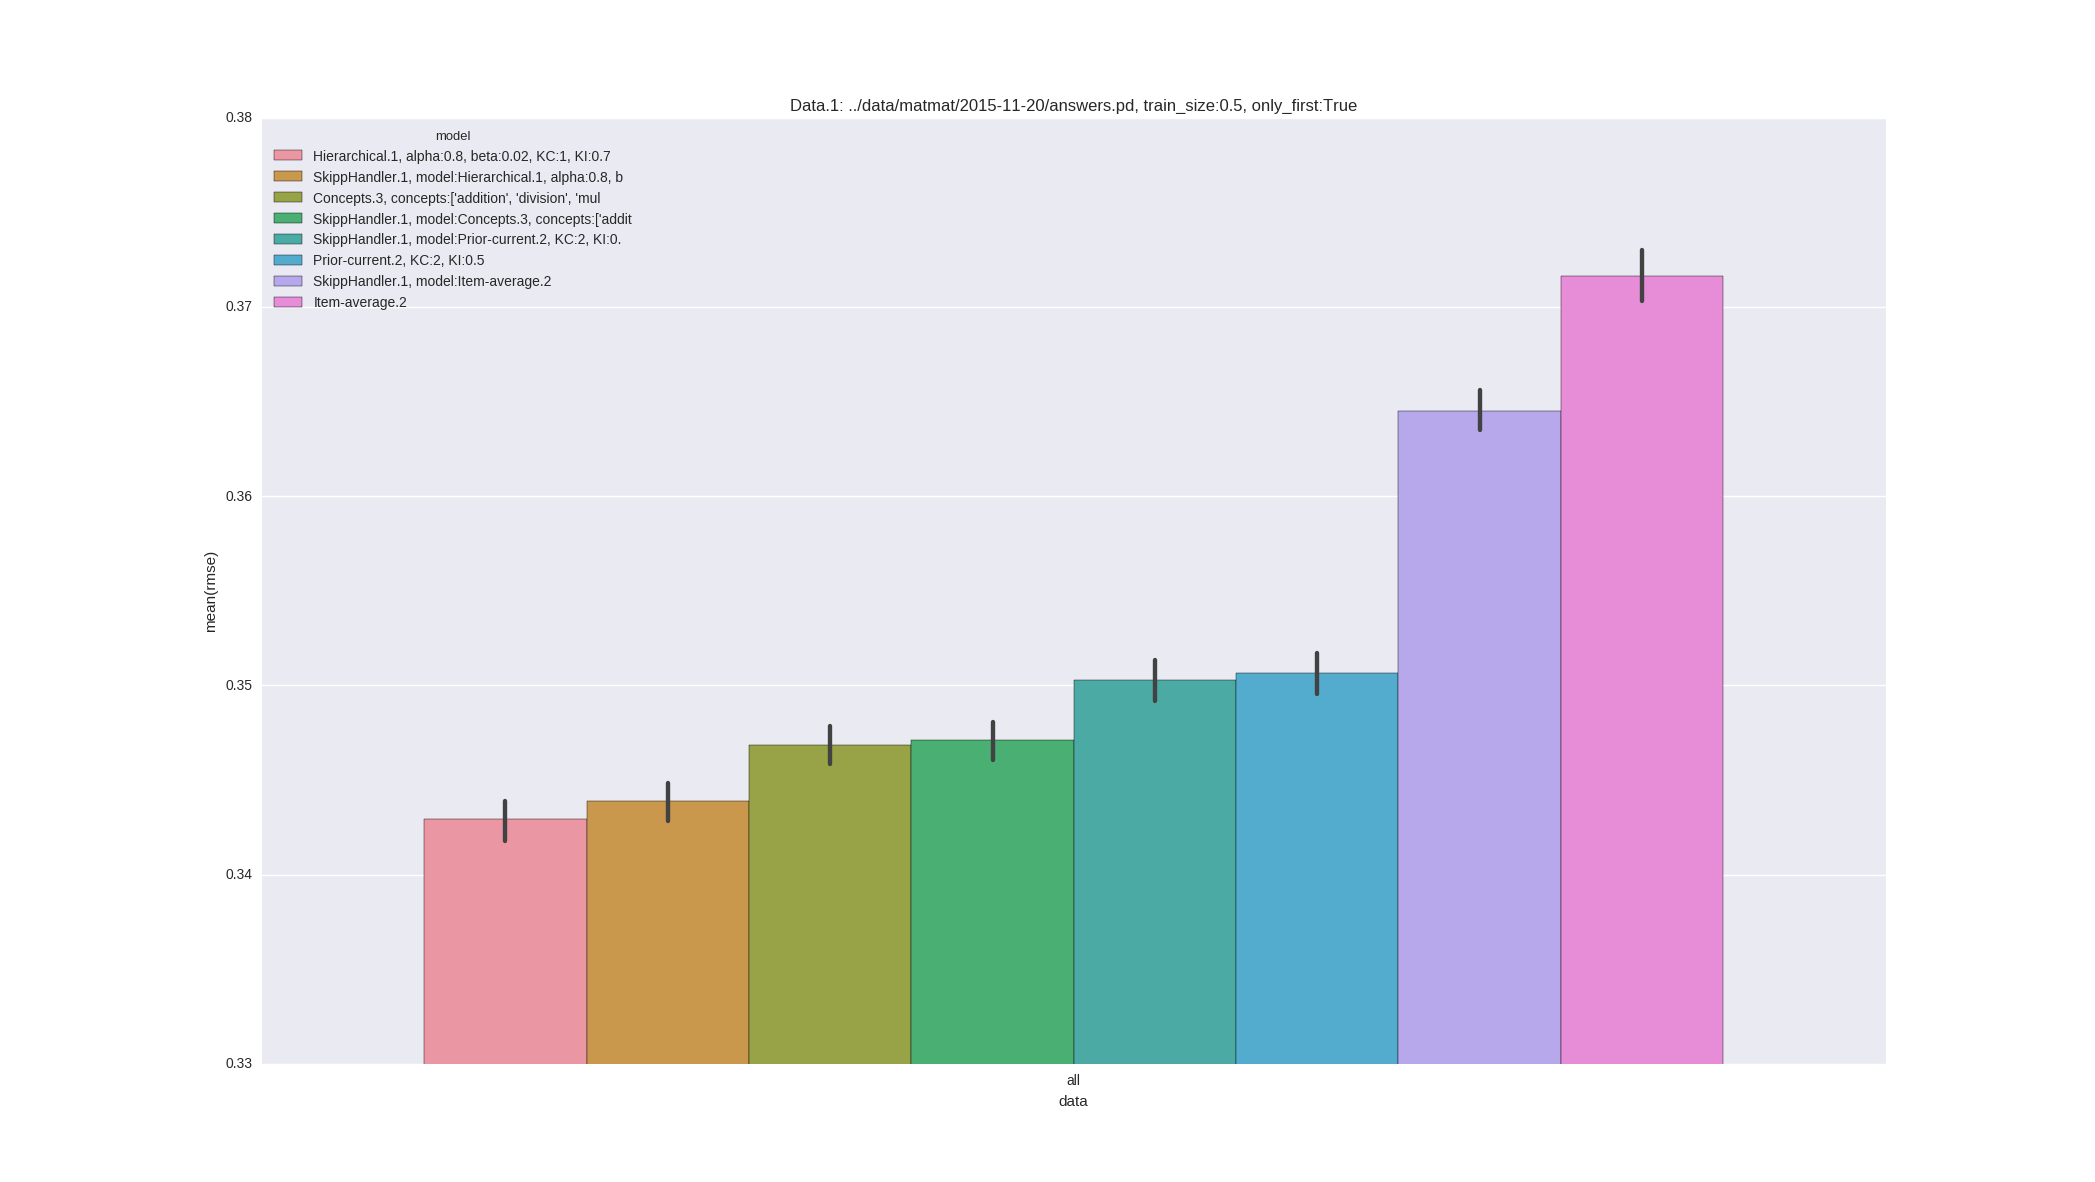
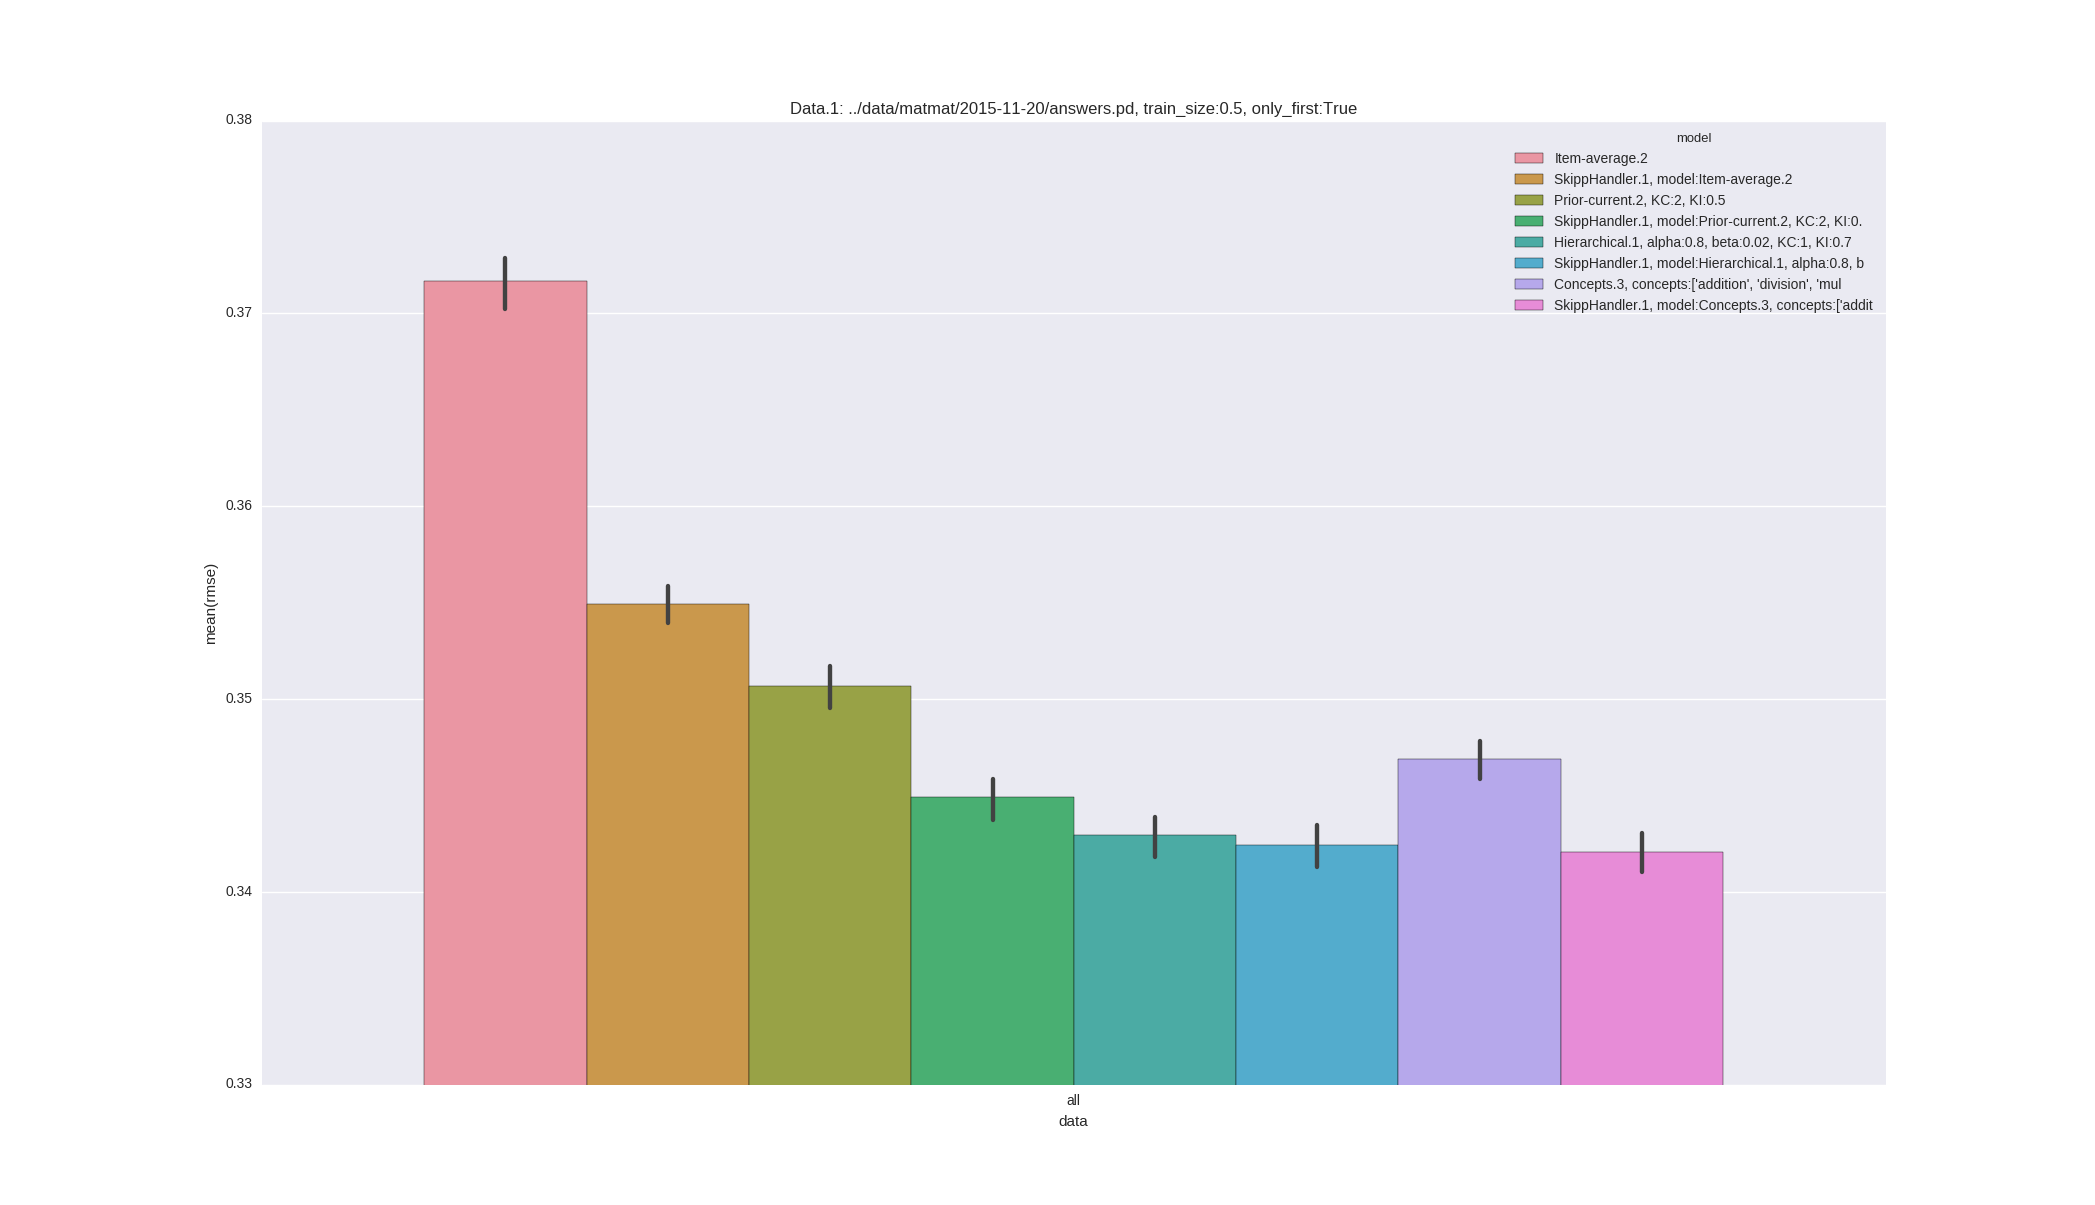
models - skipHandler - more results

Changed region(s): [[0.1241, 0.1218, 0.8998, 0.731]]

diff --git a/matmat/models_impact.py b/matmat/models_impact.py
@@ -1,7 +1,9 @@
 from algorithms.spectralclustering import SpectralClusterer
 from matmat.experiments_difficulties import difficulty_vs_time, get_difficulty
+from models.eloConcepts import EloConcepts
 from models.eloHierarchical import EloHierarchicalModel
 from models.eloPriorCurrent import EloPriorCurrentModel
+from models.skipHandler import SkipHandler
 from utils.data import Data, TimeLimitResponseModificator, ExpDrop, LinearDrop
 from utils.data import compute_corr
 import pandas as pd
@@ -32,6 +34,8 @@ def compare_models(data1, data2, model1, model2, plot=True):
     else:
         runner2, model2 = cache[str(data2) + str(model2)]
 
+    difficulties_corr, skills_corr, predictions_corr = 0, 0, 0
+
     # difficulties
     items = list(set(data1.get_items()) & set(data2.get_items()))
     difficulties = pd.DataFrame(columns=["model1", "model2"], index=items)
@@ -45,18 +49,21 @@ def compare_models(data1, data2, model1, model2, plot=True):
         plt.xlabel(str(model1))
         plt.ylabel(str(model2))
 
-    # skills
-    students = list(set(data1.get_students()) & set(data2.get_students()))
-    skills = pd.DataFrame(index=students, columns=["model1", "model2"])
-    skills["model1"] = model1.get_skills(students)
-    skills["model2"] = model2.get_skills(students)
-    skills_corr = skills.corr(method="spearman").loc["model1", "model2"]
-    if plot:
-        plt.subplot(222)
-        plt.plot(skills["model1"], skills["model2"], "k.")
-        plt.title("Skills: {}".format(skills_corr))
-        plt.xlabel(str(model1))
-        plt.ylabel(str(model2))
+    try:
+        # skills
+        students = list(set(data1.get_students()) & set(data2.get_students()))
+        skills = pd.DataFrame(index=students, columns=["model1", "model2"])
+        skills["model1"] = model1.get_skills(students)
+        skills["model2"] = model2.get_skills(students)
+        skills_corr = skills.corr(method="spearman").loc["model1", "model2"]
+        if plot:
+            plt.subplot(222)
+            plt.plot(skills["model1"], skills["model2"], "k.")
+            plt.title("Skills: {}".format(skills_corr))
+            plt.xlabel(str(model1))
+            plt.ylabel(str(model2))
+    except AttributeError:
+        pass
 
     # predictions
     predictions = pd.DataFrame(index=students, columns=["model1", "model2"])
@@ -154,11 +161,24 @@ different_time_mods = {
 }
 # compare_more_models(different_time_mods)
 
+with_nans = {
+    "flat": (lambda l: Data("../data/matmat/2015-12-16/answers.pd"), lambda l: EloPriorCurrentModel(KC=2, KI=0.5)),
+    "flat + nan": (lambda l: Data("../data/matmat/2015-12-16/answers.pd"), lambda l: SkipHandler(EloPriorCurrentModel(KC=2, KI=0.5))),
+    "hierarchical": (lambda l: Data("../data/matmat/2015-12-16/answers.pd"), lambda l: EloHierarchicalModel(KC=1, KI=0.75, alpha=0.8, beta=0.02)),
+    "hierarchical+ nan": (lambda l: Data("../data/matmat/2015-12-16/answers.pd"), lambda l: SkipHandler(EloHierarchicalModel(KC=1, KI=0.75, alpha=0.8, beta=0.02))),
+    "concepts": (lambda l: Data("../data/matmat/2015-12-16/answers.pd"), lambda l: EloConcepts(concepts=data.get_concepts())),
+    "concepts + nan": (lambda l: Data("../data/matmat/2015-12-16/answers.pd"), lambda l: SkipHandler(EloConcepts(concepts=data.get_concepts()))),
+}
+
+compare_more_models(with_nans)
 
 plt.show()
 
-if True:
+if False:
     plt.figure(figsize=(10, 10), dpi=100)
-    compare_models(data, data, model_flat(None), model_hierarchical(None))
+    # compare_models(data, data, model_flat(None), model_hierarchical(None))
+    # compare_models(data, data, EloHierarchicalModel(KC=1, KI=0.75, alpha=0.8, beta=0.02), SkipHandler(EloConcepts(concepts=data.get_concepts())))
+    compare_models(data, data, EloConcepts(concepts=data.get_concepts()), SkipHandler(EloConcepts(concepts=data.get_concepts())))
+    # compare_models(data, data, EloHierarchicalModel(KC=1, KI=0.75, alpha=0.8, beta=0.02), SkipHandler(EloHierarchicalModel(KC=1, KI=0.75, alpha=0.8, beta=0.02)))
     # print(compare_models(data_time_2, data_time_2b, model_flat(None), model_flat(None)))
     plt.show()

diff --git a/matmat/experiments_models.py b/matmat/experiments_models.py
@@ -13,28 +13,28 @@ d = data.Data("../data/matmat/2015-11-20/answers.pd", train_size=0.5, only_first
 # d = data.Data("../data/matmat/2015-11-20/answers.pd", response_modification=data.TimeLimitResponseModificator([(5, 0.5)]))
 # d = data.Data("../data/matmat/2015-11-20/answers.pd", response_modification=data.TimeLimitResponseModificator([(5, 0.66), (10, 0.33)]))
 concepts = d.get_concepts()
-
 compare_models(d, [
     # AvgModel(),
-    # ItemAvgModel(),
-    # SkipHandler(ItemAvgModel()),
+    ItemAvgModel(),
+    SkipHandler(ItemAvgModel()),
     # EloPriorCurrentModel(),
-    # EloPriorCurrentModel(KC=2, KI=0.5),
-    # SkipHandler(EloPriorCurrentModel(KC=2, KI=0.5)),
+    EloPriorCurrentModel(KC=2, KI=0.5),
+    SkipHandler(EloPriorCurrentModel(KC=2, KI=0.5)),
     # EloHierarchicalModel(),
     # EloHierarchicalModel(KC=1, KI=0.75),
     EloHierarchicalModel(KC=1, KI=0.75, alpha=0.8, beta=0.02),
     SkipHandler(EloHierarchicalModel(KC=1, KI=0.75, alpha=0.8, beta=0.02)),
     # EloHierarchicalModel(alpha=0.25, beta=0.02),
     # EloConcepts(),
-    # EloConcepts(concepts=concepts),
-    # SkipHandler(EloConcepts(concepts=concepts)),
-], dont=0, force_evaluate=1, force_run=1, runs=3, answer_filters={
+    EloConcepts(concepts=concepts),
+    SkipHandler(EloConcepts(concepts=concepts)),
+], dont=0, force_evaluate=0, force_run=0, runs=20, answer_filters={
     # "long (50) student": data.filter_students_with_many_answers(),
     # "long (30) student": data.filter_students_with_many_answers(number_of_answers=30),
     # "long (11) student": data.filter_students_with_many_answers(number_of_answers=11),
     # "response >5s-0.5": data.transform_response_by_time(((5, 0.5),))
 })
+
 
 
 # evaluator.Evaluator(d, EloHierarchicalModel(alpha=0.25, beta=0.02)).brier_graphs()

diff --git a/matmat/model impact/models_impact.py b/matmat/model impact/models_impact.py
@@ -6,6 +6,7 @@ from models.eloConcepts import EloConcepts
 from models.eloHierarchical import EloHierarchicalModel
 from models.eloPriorCurrent import EloPriorCurrentModel
 from models.model import AvgModel, ItemAvgModel
+from models.skipHandler import SkipHandler
 from utils.data import Data, TimeLimitResponseModificator, ExpDrop, LinearDrop, transform_response_by_time, \
     filter_students_with_many_answers, response_as_binary
 from utils.data import compute_corr
@@ -281,6 +282,18 @@ models_concepts = {
 
 # compare_more_models(models_concepts, data(None), runs=10)
 
+concepts = data(None).get_concepts()
+with_nans = {
+    "flat": (data, lambda l: EloPriorCurrentModel(KC=2, KI=0.5)),
+    "flat + nan": (data, lambda l: SkipHandler(EloPriorCurrentModel(KC=2, KI=0.5))),
+    "hierarchical": (data, lambda l: EloHierarchicalModel(KC=1, KI=0.75, alpha=0.8, beta=0.02)),
+    "hierarchical+ nan": (data, lambda l: SkipHandler(EloHierarchicalModel(KC=1, KI=0.75, alpha=0.8, beta=0.02))),
+    "concepts": (data, lambda l: EloConcepts(concepts=concepts)),
+    "concepts + nan": (data, lambda l: SkipHandler(EloConcepts(concepts=concepts))),
+}
+
+compare_more_models(with_nans, data(None), runs=10)
+
 
 # print(data.get_dataframe_all()["response_time"].median())
 
@@ -302,7 +315,7 @@ if False:
         # eval_data=data_test
     )
 
-if True:
+if False:
     difficulty_stability2(
     # prediction_quality(
             [data, data, data, data, data, data, data],

diff --git a/models/skipHandler.py b/models/skipHandler.py
@@ -30,7 +30,7 @@ class SkipHandler(Model):
             if self.after_skip[last_skips] == 0:
                 skip_K = 0
             else:
-                skip_K = self.skip_after_skip[last_skips] / self.after_skip[last_skips]
+                skip_K = 1 - self.skip_after_skip[last_skips] / self.after_skip[last_skips]
 
         return skip_K * self._model.predict(student, item, extra)
 
@@ -46,4 +46,10 @@ class SkipHandler(Model):
             self.last_skips[student] = 0
 
         self._model.update(student, item, prediction, correct, extra)   # update only when answer is not nan
+
+    def get_difficulties(self, items):
+        return self._model.get_difficulties(items)
+
+    def get_skills(self, students):
+        return self._model.get_skills(students)
 

diff --git a/models/eloConcepts.py b/models/eloConcepts.py
@@ -72,3 +72,6 @@ class EloConcepts(Model):
 
     def get_difficulties(self, items):
         return [self.difficulty[i] for i in items]
+
+    def get_skills(self, students):
+        return [self.global_skill[s] for s in students]
